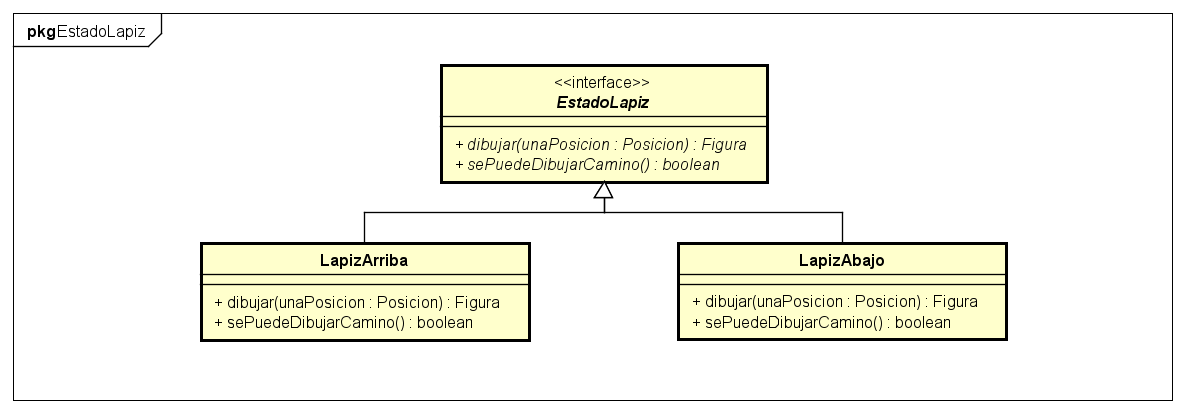
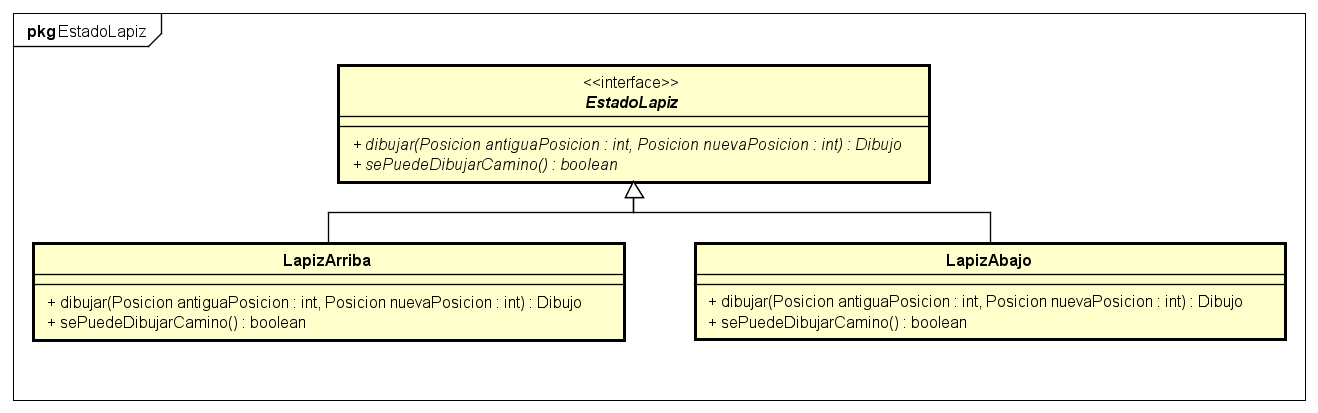
Actualización de los diagramas UML entrega 2

diff --git a/Informe/informe.md b/Informe/informe.md
@@ -46,15 +46,15 @@ comprobar si se actualiza el estado del lápiz correctamente.
 
 ## Diagramas
 
-![Diagrama de clases general](https://i.imgur.com/x095J6H.jpg)
+![Diagrama de clases general](https://i.imgur.com/9ruLwIr.png)
 Diagrama general de clases.
 
-![Diagrama de clase del Estado Lapiz](https://i.imgur.com/IYTxSVn.jpg)
+![Diagrama de clase del Estado Lapiz](https://i.imgur.com/4w9Ozp7.png)
 Diagrama de clase del Estado Lapiz.
 
-![Diagrama de clase de los Movimientos](https://i.imgur.com/3oPVhnf.jpg)
+![Diagrama de clase de los Movimientos](https://i.imgur.com/Istfx8A.png)
 Diagrama de clase de los Movimientos.
 
-![Diagrama de Secuencia Movimiento a Derecha](https://i.imgur.com/H7ytPFm.jpg)
+![Diagrama de Secuencia Movimiento a Derecha](https://i.imgur.com/5AMxooq.png)
 Diagrama de secuencia MovimientoADerecha.
 
